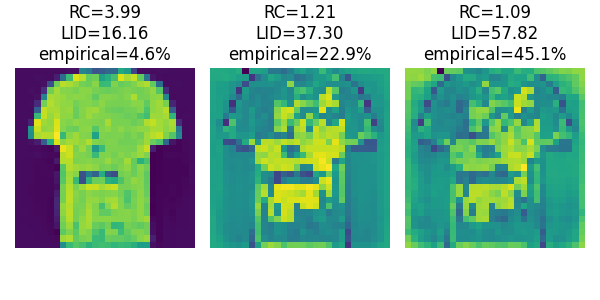
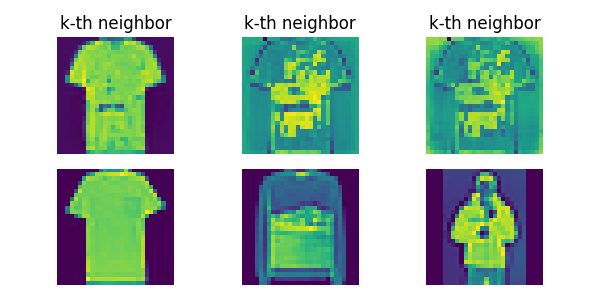
add hnsw empirical hardness

diff --git a/hephaestus.py b/hephaestus.py
@@ -149,8 +149,8 @@ class IVFEmpiricalHardness(object):
         self.index.add(data)
 
     def evaluate(self, query, k):
-        query = query.reshape(1, -1)
         ground_truth = jnp.sort(self.distance_fn(query, self.data))
+        query = query.reshape(1, -1)
 
         def tester(nprobe):
             # we need to lock the execution because the statistics collection is
@@ -172,6 +172,57 @@ class IVFEmpiricalHardness(object):
 
         dist_frac = partition_by(self.query_params, tester)
         return dist_frac
+
+
+class HNSWEmpiricalHardness(object):
+    """
+    Stores (and possibly caches on a file) a FAISS-HNSW index to evaluate the difficulty
+    of queries, using the number of computed distances as a proxy for the difficulty.
+    """
+
+    def __init__(self, distance_fn, recall, index_params="HNSW32"):
+        self.index_params = index_params
+        self.recall = recall
+        self.distance_fn = distance_fn
+
+    def fit(self, data):
+        # TODO: handle the angular distance case
+        self.index = faiss.index_factory(data.shape[1], self.index_params)
+        self.index.train(data)
+        self.index.add(data)
+        self.data = data
+
+    def evaluate(self, query, k):
+        """Evaluates the empirical difficulty of the given point `x` for the given `k`.
+        Returns the number of distance computations, scaled by the number of datasets.
+        """
+        ground_truth = jnp.sort(self.distance_fn(query, self.data))
+        query = query.reshape(1, -1)
+
+        def tester(efsearch):
+            # we need to lock the execution because the statistics collection is
+            # not thread safe, in that it uses global variables.
+            with EMPIRICAL_HARDNESS_LOCK:
+                faiss.cvar.hnsw_stats.reset()
+                self.index.hnsw.efSearch = efsearch
+                run_dists = jnp.sqrt(self.index.search(query, k)[0][0])
+                stats = faiss.cvar.hnsw_stats
+                distcomp = stats.ndis
+
+            rec = compute_recall(ground_truth, run_dists, k)
+            if rec >= self.recall:
+                return distcomp / self.index.ntotal
+            else:
+                return None
+
+        dist_frac = partition_by(list(range(1, self.index.ntotal)), tester)
+
+        if dist_frac is not None:
+            return dist_frac
+        else:
+            raise Exception(
+                "Could not get the desired recall, even visiting the entire dataset"
+            )
 
 
 class HephaestusGradient(object):
@@ -240,8 +291,10 @@ if __name__ == "__main__":
     fig, axs = plt.subplots(1, 3, figsize=(6, 3))
 
     k = 10
-    empirical = IVFEmpiricalHardness(Euclidean(), 0.9)
-    empirical.fit(data)
+    empirical_ivf = IVFEmpiricalHardness(Euclidean(), 0.9)
+    empirical_ivf.fit(data)
+    empirical_hnsw = HNSWEmpiricalHardness(Euclidean(), 0.9)
+    empirical_hnsw.fit(data)
 
     distance = Euclidean()
 
@@ -253,9 +306,11 @@ if __name__ == "__main__":
         q = hg.generate(k=k, score_low=0.99 * target, score_high=1.01 * target)
         rc = relative_contrast(q, data, k, distance)
         lid = local_intrinsic_dimensionality(q, data, k, distance)
-        emp = empirical.evaluate(q, k) * 100
+        emp_ivf = empirical_ivf.evaluate(q, k) * 100
+        emp_hnsw = empirical_hnsw.evaluate(q, k) * 100
+        ic(emp_hnsw)
         ax.imshow(q.reshape(28, 28))
-        ax.set_title(f"RC={rc:.2f}\nLID={lid:.2f}\nempirical={emp:.1f}%")
+        ax.set_title(f"RC={rc:.2f}\nLID={lid:.2f}\nempirical_ivf={emp_ivf:.1f}\nempirical_hnsw={emp_hnsw:.1f}%")
         ax.axis("off")
 
     plt.tight_layout()

diff --git a/example.py b/example.py
@@ -11,26 +11,52 @@ with h5py.File("fashion-mnist-784-euclidean.hdf5") as hfp:
     data = jnp.array(hfp["train"][:])
     d = data.shape[1]
 
-fig, axs = plt.subplots(1, 3, figsize=(6, 3))
 
 k = 10
-empirical = IVFEmpiricalHardness(Euclidean(), 0.9)
-empirical.fit(data)
+targets = [4, 1.2, 1.05]
 
+# the distance function to use
 distance = Euclidean()
 
-for target, ax in zip([4, 1.2, 1.05], axs):
+# empirical difficulty hardness measures
+empirical_ivf = IVFEmpiricalHardness(distance, 0.9)
+empirical_ivf.fit(data)
+empirical_hnsw = HNSWEmpiricalHardness(distance, 0.9)
+empirical_hnsw.fit(data)
+
+fig, axs = plt.subplots(2, len(targets), figsize=(6, 3))
+
+# generate three queries with different target Relative Constrast
+# values. The first is expected to be easier than the last
+for i, target in enumerate(targets):
+    # set up the generator
     hg = HephaestusGradient(
         distance, relative_contrast, learning_rate=1, max_iter=500, seed=1234
     )
+    # pass the data to the generator
     hg.fit(data)
+    # generate a query whose relative contrast is within 1% of the target one
     q = hg.generate(k=k, score_low=0.99 * target, score_high=1.01 * target)
+
+    # measure difficulties
     rc = relative_contrast(q, data, k, distance)
     lid = local_intrinsic_dimensionality(q, data, k, distance)
-    emp = empirical.evaluate(q, k) * 100
-    ax.imshow(q.reshape(28, 28))
-    ax.set_title(f"RC={rc:.2f}\nLID={lid:.2f}\nempirical={emp:.1f}%")
-    ax.axis("off")
+    emp_ivf = empirical_ivf.evaluate(q, k) * 100
+    emp_hnsw = empirical_hnsw.evaluate(q, k) * 100
+
+    # get the kth nearest neighbor
+    kth_index = jnp.argpartition(distance(q, data), k)[k]
+    neighbor = data[kth_index]
+
+    # plot the query
+    axs[0, i].imshow(q.reshape(28, 28))
+    axs[0, i].set_title(f"RC={rc:.2f}\nLID={lid:.2f}\nempirical={emp_ivf:.1f}%")
+    axs[0, i].axis("off")
+
+    # plot the neighbor
+    axs[1, i].imshow(neighbor.reshape(28, 28))
+    axs[1, i].set_title("k-th neighbor")
+    axs[1, i].axis("off")
 
 plt.tight_layout()
 plt.savefig("imgs/queries-by-rc.png")
